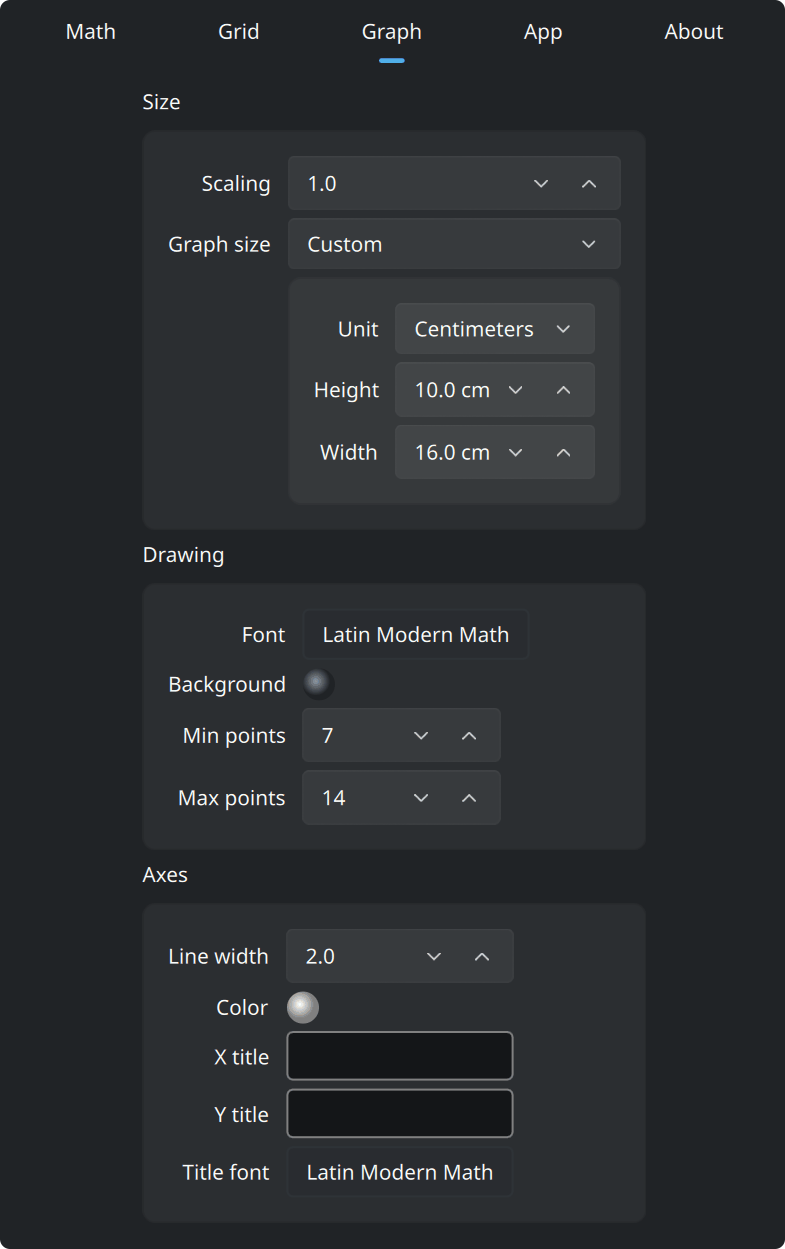
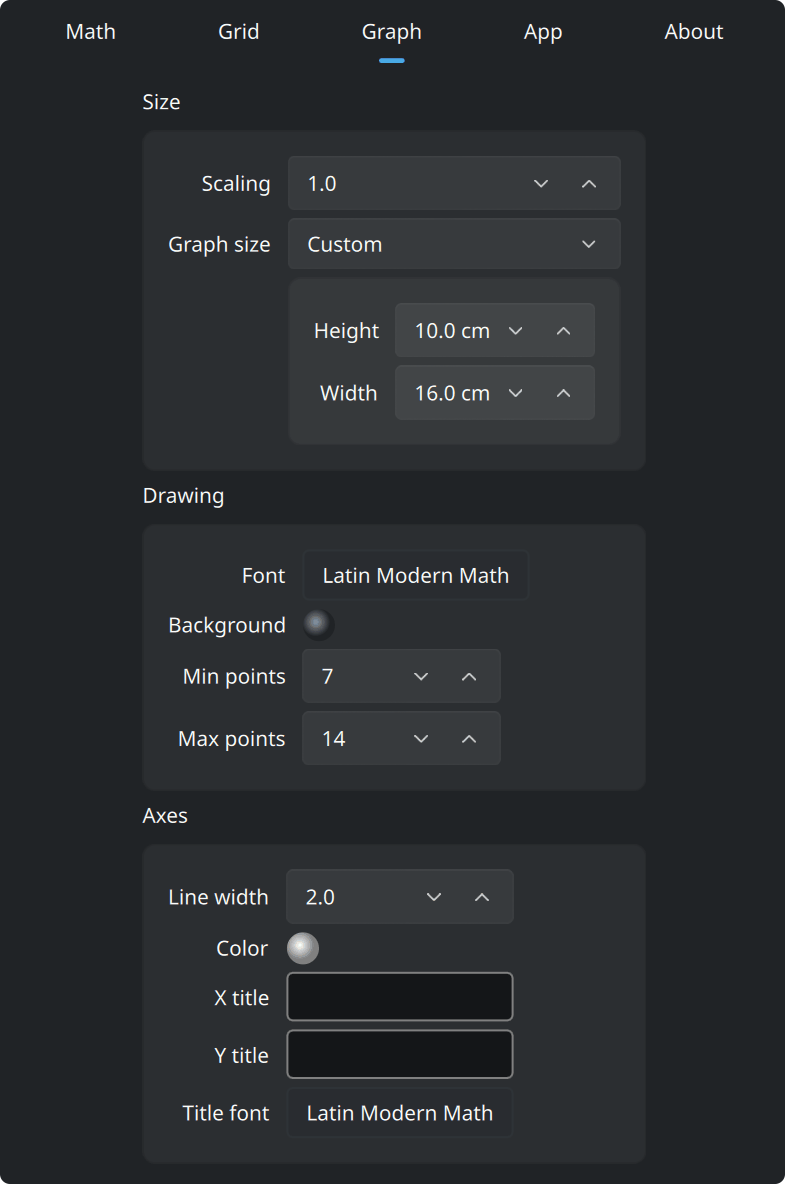
C++, QML: drop the pixel unit for the sheet size
A sheet pixel matched neither a screen pixel nor a PNG export pixel.
Documents saved with a size in pixels open with that number in cm.

AI assisted

diff --git a/src/QML/GraphSettings.qml b/src/QML/GraphSettings.qml
@@ -9,14 +9,10 @@ Item {
   id: root
 
   readonly property double cm_increment: 1.0;
-  readonly property double px_increment: 50;
-  readonly property double max_px_size: 10000
   readonly property double max_cm_size: 1000
 
   required property ZeGraphSettings graphSettings
   required property size globalMenuSize
-
-  readonly property bool pixelUnits: root.graphSettings.size.sizeUnit === SizeUnit.PIXEL
 
   FontDialog {
     id: graphFontDialog
@@ -115,36 +111,6 @@ Item {
               columns: 2
 
               ZeLabel {
-                id: unitLabel
-                Layout.alignment: Qt.AlignRight
-                text: qsTr('Unit')
-                tooltipText: qsTr("Centimeters give the graph a real size, on the screen and in PDF or SVG exports.")
-              }
-              ComboBox {
-                Layout.fillWidth: true
-
-                id: unitComboBox
-
-                ToolTip.delay: ZeStyle.tooltipDelay
-                ToolTip.text: unitLabel.tooltipText
-                ToolTip.visible: hovered
-
-                implicitContentWidthPolicy: ComboBox.WidestText
-                background.implicitWidth: implicitContentWidth
-                textRole: "text"
-                valueRole: "value"
-
-                model: [
-                  { text: qsTr("Pixels"), value: SizeUnit.PIXEL },
-                  { text: qsTr("Centimeters"), value: SizeUnit.CENTIMETER },
-                ]
-
-                currentIndex: model.findIndex((entry) => entry.value === root.graphSettings.size.sizeUnit)
-
-                onActivated: root.graphSettings.size.sizeUnit = currentValue
-              }
-
-              ZeLabel {
                 Layout.alignment: Qt.AlignRight
 
                 id: sheetHeightLabel
@@ -153,23 +119,13 @@ Item {
               }
               ZeDoubleSpinBox {
                 id: sheetHeight
-                //: shorthand for pixels or centimeters, the size of the graph
-                suffix: root.pixelUnits ? qsTr(" px") : qsTr(" cm")
-                to: root.pixelUnits ? root.max_px_size : root.max_cm_size
-                step: root.pixelUnits ? root.px_increment : root.cm_increment
+                //: shorthand for centimeters, the size of the graph
+                suffix: qsTr(" cm")
+                to: root.max_cm_size
+                step: root.cm_increment
 
-                value: root.pixelUnits ? root.graphSettings.size.pxSheetSize.height : root.graphSettings.size.cmSheetSize.height
-
-                onValueModified: (value) => {
-                  if (root.pixelUnits) {
-                    root.graphSettings.size.pxSheetSize.height = value;
-                    root.graphSettings.size.cmSheetSize.height = value / root.graphSettings.pixelDensity;
-                  } else {
-                    root.graphSettings.size.pxSheetSize.height = value * root.graphSettings.pixelDensity;
-                    root.graphSettings.size.cmSheetSize.height = value;
-                  }
-
-                }
+                value: root.graphSettings.size.cmSheetSize.height
+                onValueModified: (value) => root.graphSettings.size.cmSheetSize.height = value
               }
 
               ZeLabel {
@@ -181,22 +137,13 @@ Item {
               ZeDoubleSpinBox {
 
                 id: sheetWidth
-                //: shorthand for pixels or centimeters, the size of the graph
-                suffix: root.pixelUnits ? qsTr(" px") : qsTr(" cm")
-                to: root.pixelUnits ? root.max_px_size : root.max_cm_size
-                step: root.pixelUnits ? root.px_increment : root.cm_increment
+                //: shorthand for centimeters, the size of the graph
+                suffix: qsTr(" cm")
+                to: root.max_cm_size
+                step: root.cm_increment
 
-                value: root.pixelUnits ? root.graphSettings.size.pxSheetSize.width : root.graphSettings.size.cmSheetSize.width
-
-                onValueModified: (value) => {
-                  if (root.pixelUnits) {
-                    root.graphSettings.size.pxSheetSize.width = value;
-                    root.graphSettings.size.cmSheetSize.width = value / root.graphSettings.pixelDensity;
-                  } else {
-                    root.graphSettings.size.pxSheetSize.width = value * root.graphSettings.pixelDensity;
-                    root.graphSettings.size.cmSheetSize.width = value;
-                  }
-                }
+                value: root.graphSettings.size.cmSheetSize.width
+                onValueModified: (value) => root.graphSettings.size.cmSheetSize.width = value
               }
 
               states: [

diff --git a/src/QML/MainWindow.qml b/src/QML/MainWindow.qml
@@ -336,6 +336,10 @@ ApplicationWindow {
         function onSizeSettingsChanged() {
           interactiveGraph.updateImplicitSize();
         }
+
+        function onPixelDensityChanged() {
+          interactiveGraph.updateImplicitSize();
+        }
       }
 
       function updateImplicitSize() {
@@ -343,8 +347,9 @@ ApplicationWindow {
           implicitWidth = graphScrollView.availableWidth;
           implicitHeight = graphScrollView.availableHeight;
         } else {
-          implicitWidth = interactiveGraph.settings.size.pxSheetSize.width * interactiveGraph.settings.zoom.zoom;
-          implicitHeight = interactiveGraph.settings.size.pxSheetSize.height * interactiveGraph.settings.zoom.zoom;
+          const pxPerCm = interactiveGraph.settings.pixelDensity * interactiveGraph.settings.zoom.zoom;
+          implicitWidth = interactiveGraph.settings.size.cmSheetSize.width * pxPerCm;
+          implicitHeight = interactiveGraph.settings.size.cmSheetSize.height * pxPerCm;
         }
       }
     }

diff --git a/src/structures.h b/src/structures.h
@@ -43,37 +43,21 @@ inline constexpr zc::parsing::Type zc_t = zc::parsing::Type::RPN;
 enum struct ZeAxisName {X, Y};
 
 
-struct SizeUnit: QObject
-{
-  Q_OBJECT
-  QML_ELEMENT
-
-public:
-  SizeUnit(QObject *parent = nullptr): QObject(parent) {}
-
-  enum Unit {PIXEL, CENTIMETER};
-  Q_ENUM(Unit)
-};
-
 struct ZeSizeSettings
 {
   Q_GADGET
 
-  Q_PROPERTY(SizeUnit::Unit sizeUnit MEMBER sizeUnit)
   Q_PROPERTY(bool sheetFillsWindow MEMBER sheetFillsWindow)
   Q_PROPERTY(double scalingFactor MEMBER scalingFactor)
-  Q_PROPERTY(QSize pxSheetSize MEMBER pxSheetSize)
   Q_PROPERTY(QSizeF cmSheetSize MEMBER cmSheetSize)
 
 
 public:
 
-  SizeUnit::Unit sizeUnit = SizeUnit::PIXEL;
   bool sheetFillsWindow = true;
 
   double scalingFactor = 1.0;
 
-  QSize pxSheetSize;
   QSizeF cmSheetSize;
 
   bool operator == (const ZeSizeSettings &other) const = default;
@@ -81,24 +65,14 @@ public:
   struct POD
   {
     std::optional<double> scaling;
-    std::optional<SizeUnit::Unit> unit;
     std::optional<double> width;
     std::optional<double> height;
 
-    operator bool () const { return scaling or unit or width or height; }
+    operator bool () const { return scaling or width or height; }
   };
 
   std::optional<POD> exportPod() const;
   void importPod(POD);
-};
-
-template <>
-struct glz::meta<SizeUnit::Unit>
-{
-   using enum SizeUnit::Unit;
-   static constexpr auto value = glz::enumerate(
-    "centimeter", CENTIMETER,
-    "pixel", PIXEL);
 };
 
 struct ZoomingType: QObject

diff --git a/src/structures.cpp b/src/structures.cpp
@@ -19,17 +19,8 @@ std::optional<ZeSizeSettings::POD> ZeSizeSettings::exportPod() const
 
   if (not sheetFillsWindow)
   {
-    p.unit = sizeUnit;
-    if (sizeUnit == SizeUnit::PIXEL)
-    {
-      p.width = pxSheetSize.width();
-      p.height = pxSheetSize.height();
-    }
-    else
-    {
-      p.width = cmSheetSize.width();
-      p.height = cmSheetSize.height();
-    }
+    p.width = cmSheetSize.width();
+    p.height = cmSheetSize.height();
   }
 
   if (p)
@@ -45,22 +36,7 @@ void ZeSizeSettings::importPod(POD p)
   if (p.width or p.height)
   {
     sheetFillsWindow = false;
-    if (p.unit)
-      sizeUnit = *p.unit;
-    else sizeUnit = SizeUnit::PIXEL;
-
-    if (sizeUnit == SizeUnit::PIXEL)
-    {
-      if (p.width) pxSheetSize.setWidth(*p.width);
-      if (p.height) pxSheetSize.setHeight(*p.height);
-    }
-    else
-    {
-      if (p.width) cmSheetSize.setWidth(*p.width);
-      if (p.height) cmSheetSize.setHeight(*p.height);
-    }
+    if (p.width) cmSheetSize.setWidth(*p.width);
+    if (p.height) cmSheetSize.setHeight(*p.height);
   }
-
-  if (p.unit)
-    sizeUnit = *p.unit;
 }

diff --git a/src/GraphDraw/graph.cpp b/src/GraphDraw/graph.cpp
@@ -216,14 +216,8 @@ void Graph::computeSupportRect()
   }
   else if (settings.getZoom().zoomingType == ZoomingType::FITSHEET)
   {
-    double ratio, targetRatio;
-    ratio = scaledSize.height() / scaledSize.width();
-
-    if (settings.getSize().sizeUnit == SizeUnit::CENTIMETER)
-      targetRatio = settings.getSize().cmSheetSize.height() / settings.getSize().cmSheetSize.width();
-    else
-      targetRatio = double(settings.getSize().pxSheetSize.height())
-                    / double(settings.getSize().pxSheetSize.width());
+    const double ratio = scaledSize.height() / scaledSize.width();
+    const double targetRatio = settings.getSize().cmSheetSize.height() / settings.getSize().cmSheetSize.width();
 
     if (ratio <= targetRatio)
     {

diff --git a/src/Utils/graphsettings.cpp b/src/Utils/graphsettings.cpp
@@ -183,14 +183,7 @@ void ZeGraphSettings::updateSizes()
   ZeSizeSettings oldSize = size;
 
   if (size.sheetFillsWindow)
-  {
-    size.pxSheetSize = availableSizePx;
-    size.cmSheetSize = availableSizePx.toSizeF() / pixelDensity;
-  }
-
-  if (size.sizeUnit == SizeUnit::CENTIMETER)
-    size.pxSheetSize = (size.cmSheetSize * pixelDensity).toSize();
-  else size.cmSheetSize = size.pxSheetSize.toSizeF() / pixelDensity;
+    size.cmSheetSize = availableSizeCm;
 
   if (size != oldSize)
     emit sizeSettingsChanged();

diff --git a/website/content/en/2-features.md b/website/content/en/2-features.md
@@ -23,7 +23,7 @@ parametric equations and data — and exports exactly what you see.
 - **Customization down to the grid**: ticks as multiples of an expression such
   as `π`, and separate subdivisions and colors for x and y.
 - **Exports identical to the preview**, vector (`svg`, `pdf`) or image (`png`,
-  `jpeg`, `bmp`, `ppm`). You give the size in real centimeters or in pixels.
+  `jpeg`, `bmp`, `ppm`). You give the size in real centimeters.
 - **Pick up where you left off**: the app saves your work when you close it, and
   brings it back at the next start. You can also save it to a file of your own,
   and open it whenever you want.

diff --git a/website/content/en/4-documentation.md b/website/content/en/4-documentation.md
@@ -312,8 +312,8 @@ takes the number of parts it cuts each cell into.
 
 By default the graph fills the window. Set **Graph size** to *Custom*, in the
 **Size** box at the top, and the graph becomes a sheet of the size you give.
-That size is in pixels, or in **real centimeters**. A centimeter is a real
-centimeter on the screen, and stays one in an exported `pdf` or `svg`.
+That size is in **real centimeters**. A centimeter is a real centimeter on the
+screen, and stays one in an exported `pdf` or `svg`.
 
 **Scaling**, in the same box, resizes everything the app draws at once: the
 lines, the text and the ticks.
